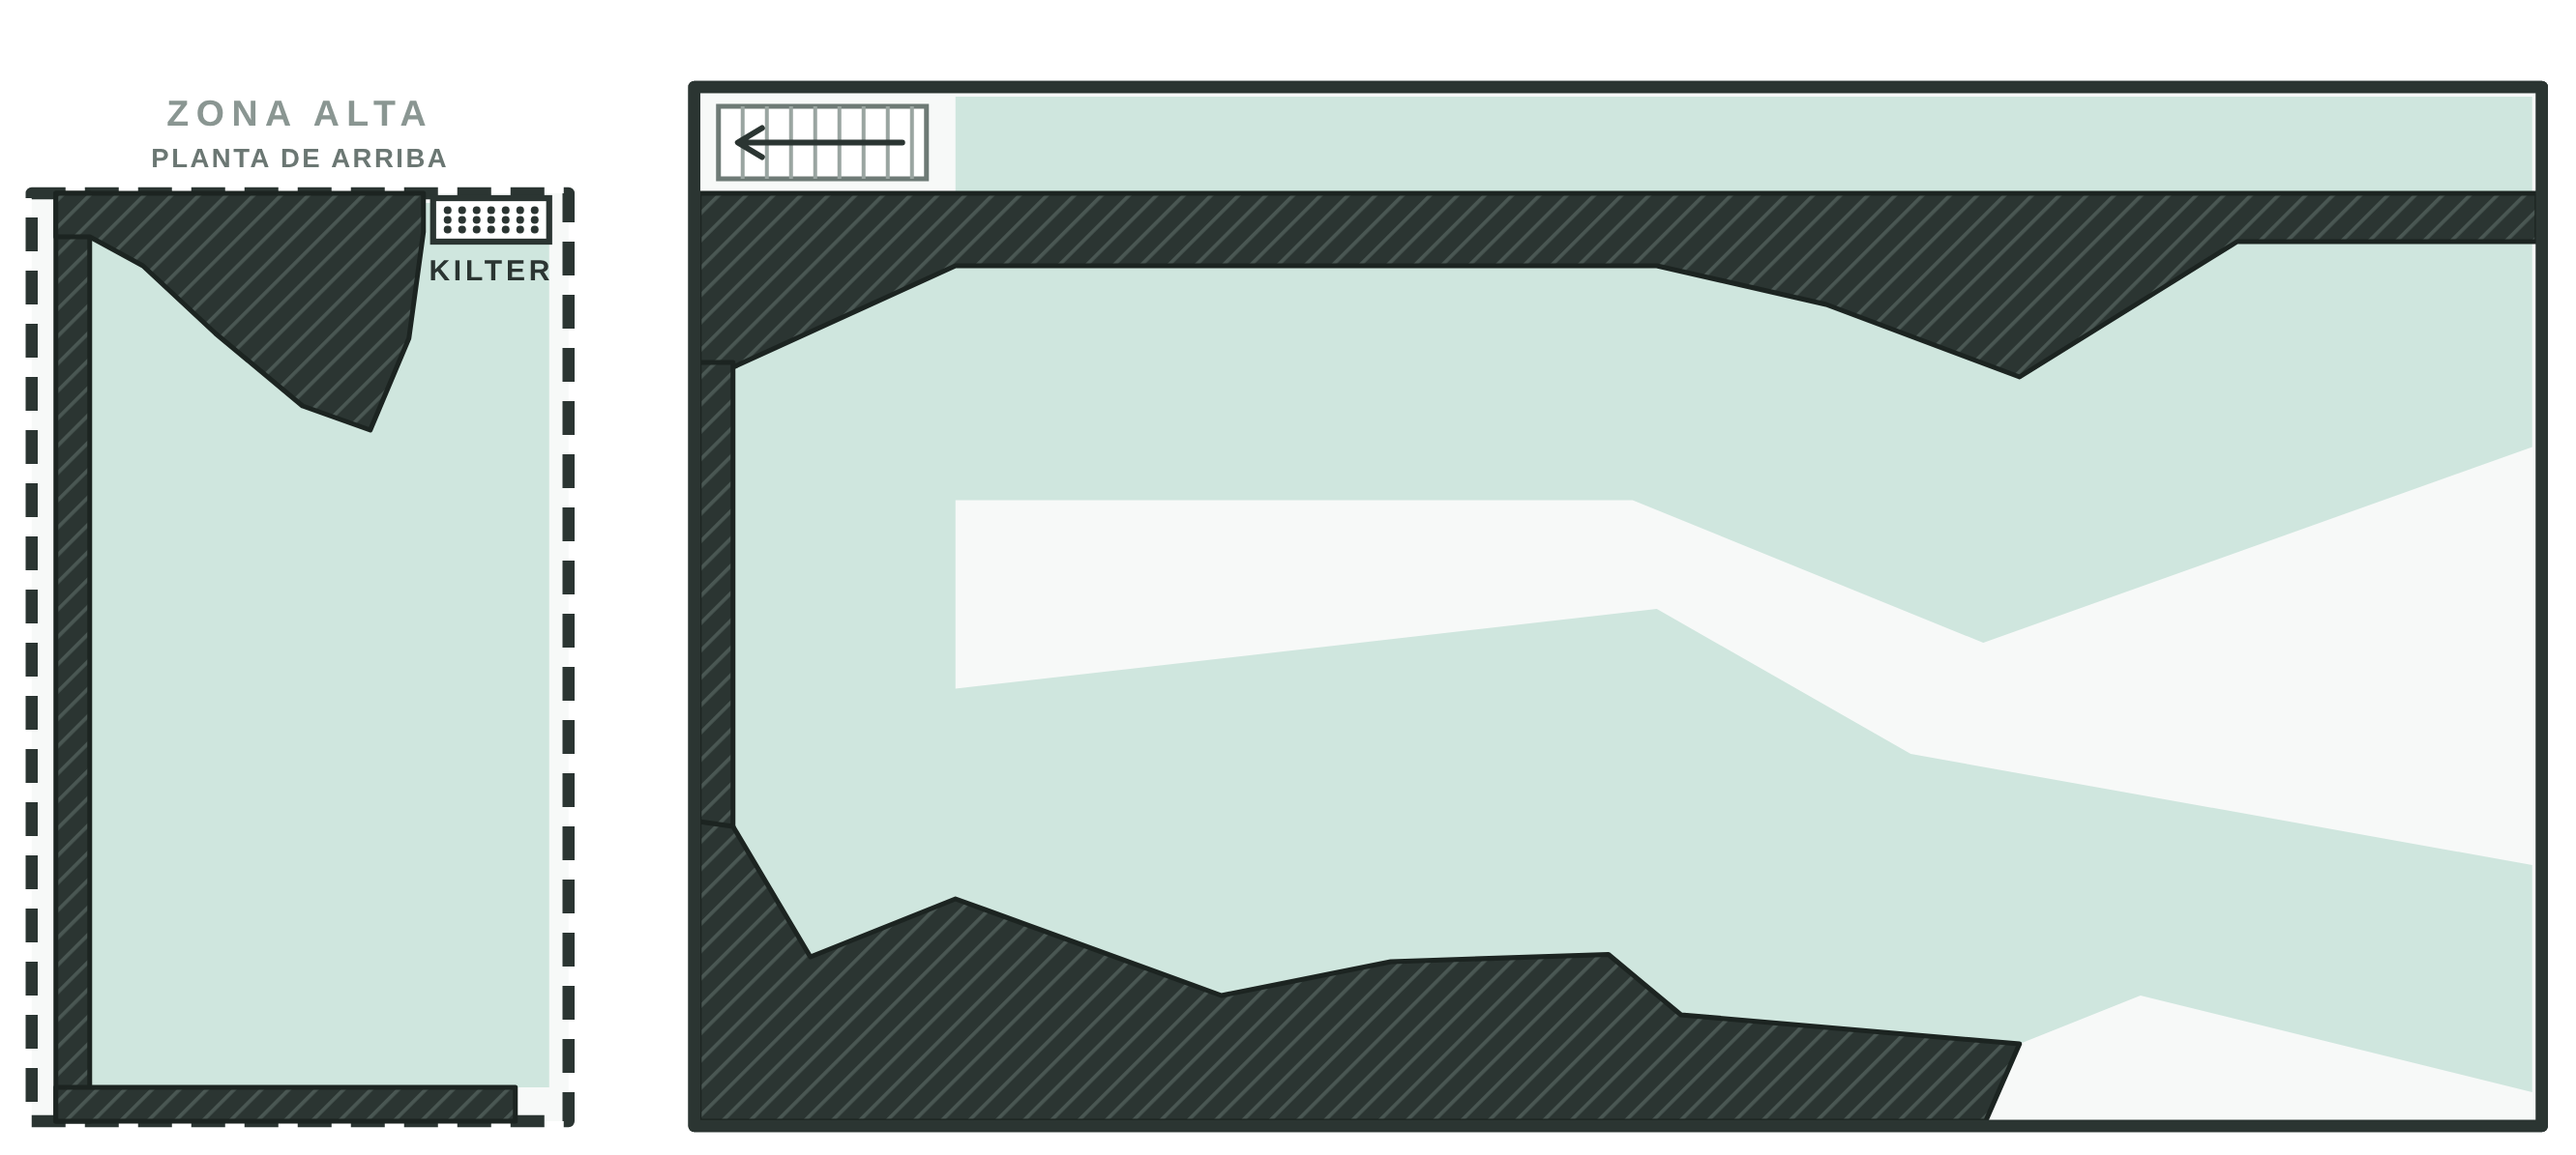
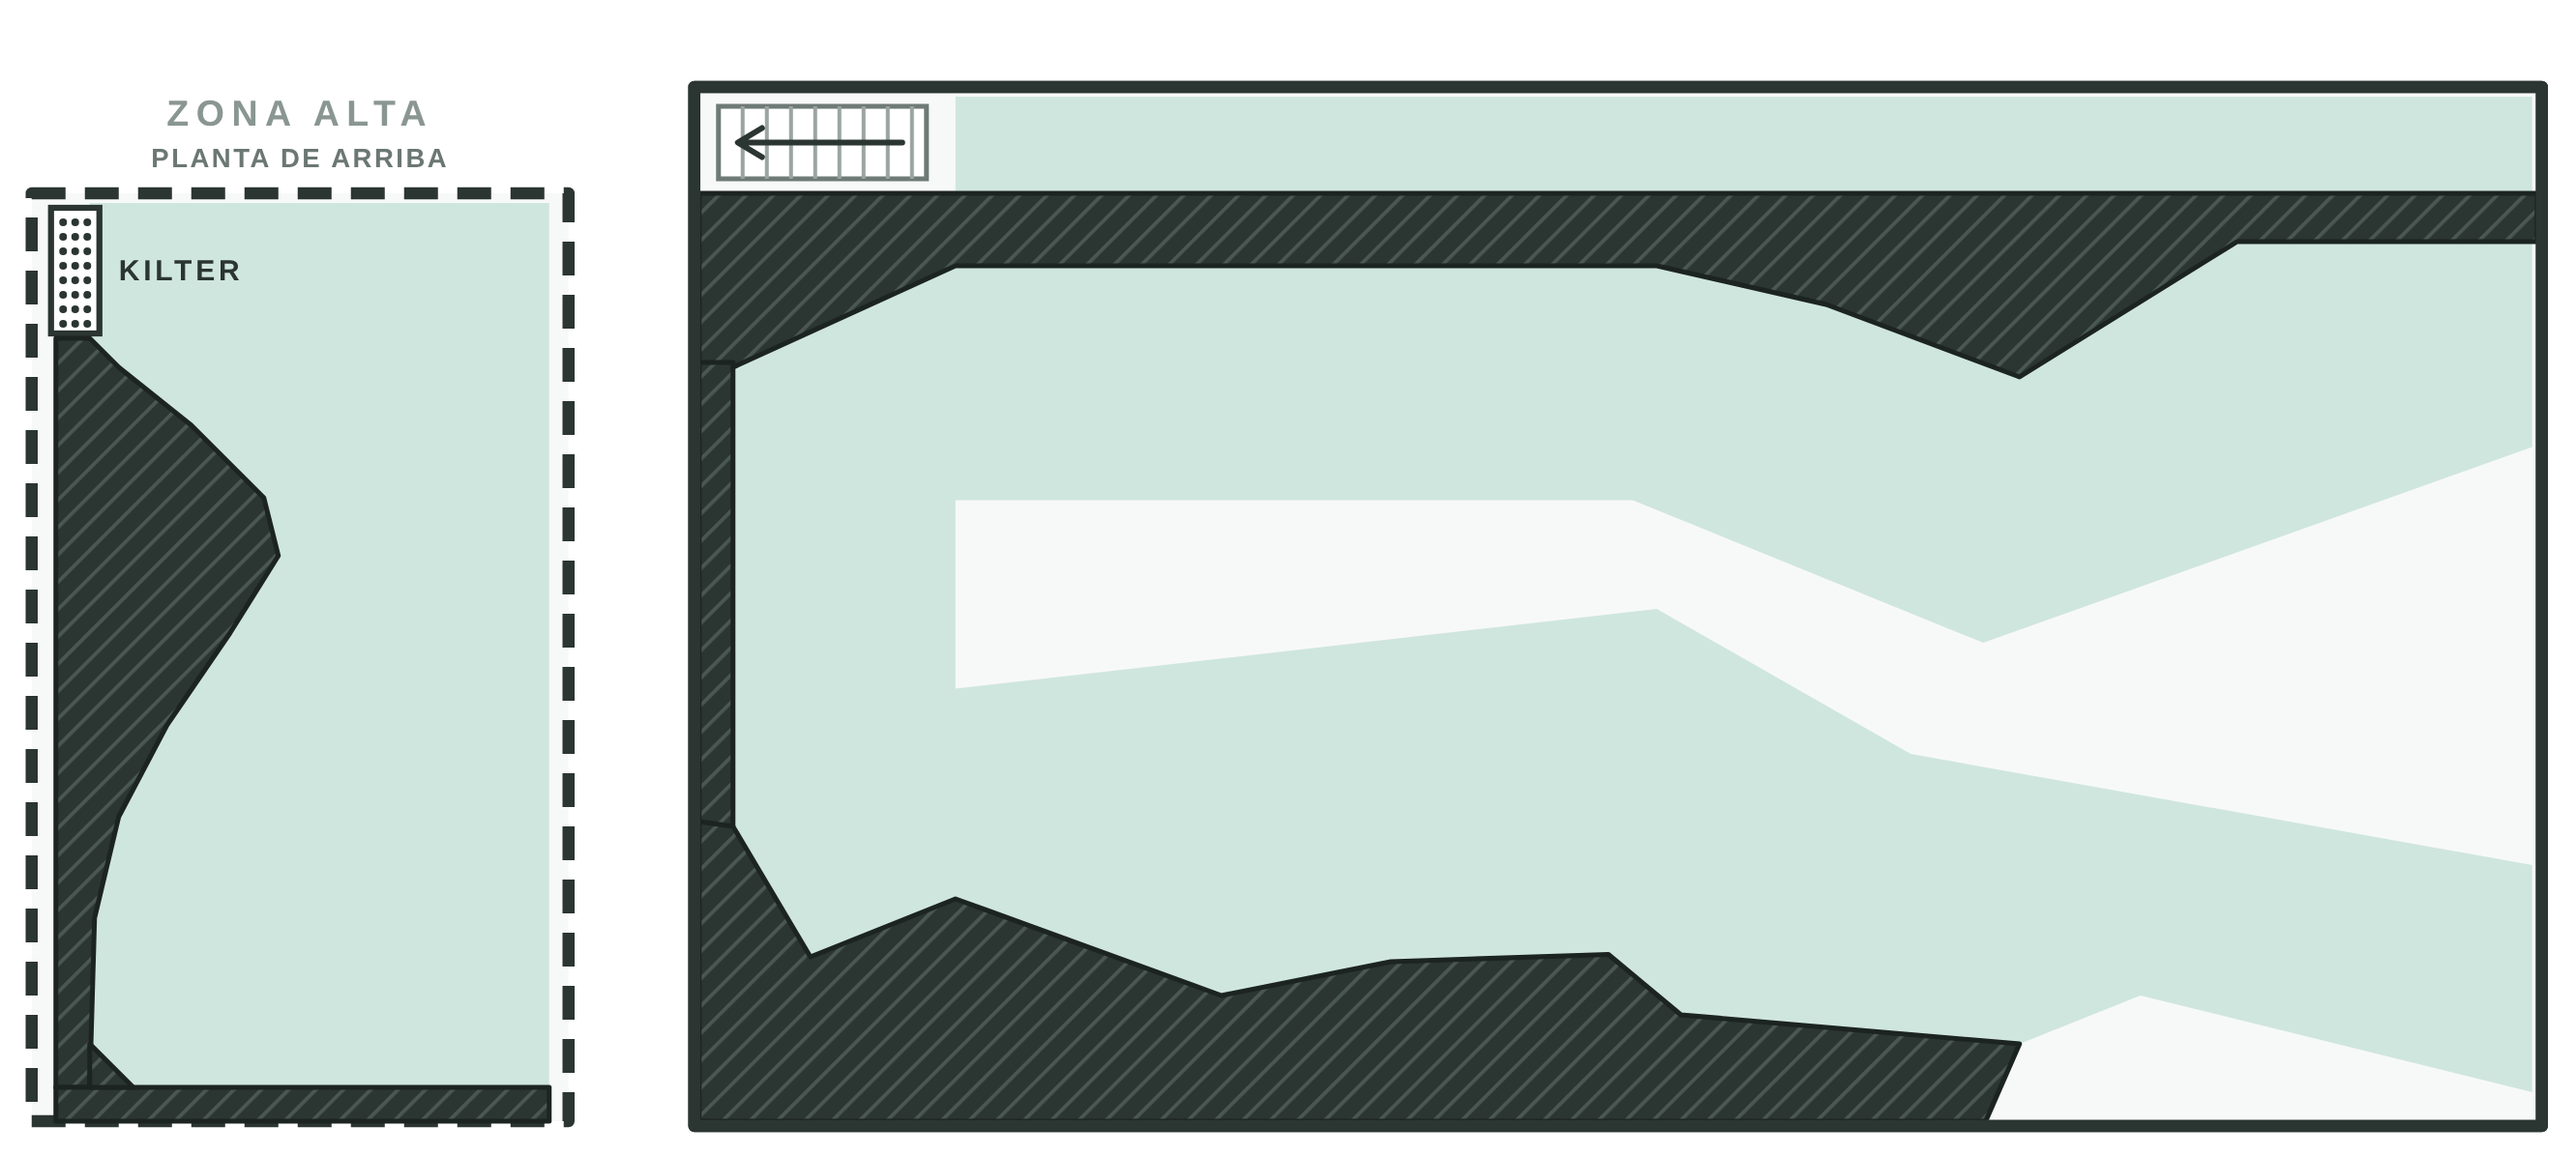
Plano de Benimaclet: zona alta con pared del fondo e izquierda
La foto está tomada desde la esquina delantera derecha: se escalan la
pared del fondo (con desplome y la Kilter en el hueco) y la izquierda.

Claude-Session: https://claude.ai/code/session_01DAFZYU9jXZHpUX8tGfXKMs

Changed region(s): [[0.0, 0.1548, 0.2182, 0.805], [0.187, 0.9289, 0.2182, 0.9908], [0.0312, 0.8979, 0.0623, 0.9598]]

diff --git a/mapas/natural-benimaclet.py b/mapas/natural-benimaclet.py
@@ -11,12 +11,13 @@ mat = [(26,150),(120,108),(410,108),(480,125),(560,155),(650,100),(772,100),(772
 # Colchoneta delante de la cara exterior del brazo de arriba
 mat_ext = [(120,40),(772,40),(772,80),(120,80)]
 walls = {
-  # Zona alta, abierta hacia la U (a la derecha). Fondo: pared de los triángulos
-  "alta-fondo": [(-252,80),(-238,80),(-238,464),(-252,464)],
-  # Pared de las presas amarillas (a la izquierda según se entra)
-  "alta-amarilla": [(-252,450),(-62,450),(-62,464),(-252,464)],
-  # Pared grande con desplome (a la derecha según se entra): sale hacia la sala en proa
-  "alta-desplome": [(-252,80),(-100,80),(-100,96),(-106,140),(-122,178),(-150,168),(-186,138),(-216,110),(-238,98),(-252,98)],
+  # Zona alta (frente abierto hacia la U, a la derecha del recuadro).
+  # Pared del fondo: la grande con desplome, que sale hacia la sala en proa; la Kilter va en el hueco de arriba
+  "alta-fondo": [(-252,140),(-238,140),(-226,152),(-196,176),(-166,206),(-160,230),(-180,262),(-206,300),(-226,338),(-236,380),(-238,450),(-252,450)],
+  # Pared izquierda: triángulos y presas amarillas
+  "alta-izquierda": [(-252,450),(-48,450),(-48,464),(-252,464)],
+  # Volumen de la esquina entre las dos
+  "alta-esquina": [(-238,450),(-238,432),(-220,450)],
   # Brazo de arriba: se escala por dentro (con su desplome) y por fuera
   "arriba": [(14,80),(774,80),(774,100),(650,100),(560,156),(480,126),(410,110),(120,110),(28,152),(14,152)],
   "fondo": [(14,150),(28,150),(28,342),(14,342)],
@@ -40,9 +41,9 @@ svg = f'''<svg xmlns="http://www.w3.org/2000/svg" viewBox="-275 0 1065 478" widt
 <polygon points="{P(up)}" fill="#F7F9F8" stroke="#2B3532" stroke-width="5" stroke-dasharray="14 8" stroke-linejoin="round"/>
 <polygon points="{P(up_mat)}" fill="#CFE6DE"/>
 <g>
-  <rect x="-96" y="82" width="48" height="18" fill="#FFFFFF" stroke="#2B3532" stroke-width="2.5"/>
-  <g fill="#2B3532">{"".join(f'<circle cx="{x}" cy="{y}" r="1.6"/>' for x in range(-90, -50, 6) for y in (87, 91, 95))}</g>
-  <text x="-72" y="116" font-family="Helvetica, Arial, sans-serif" font-size="12" font-weight="800" fill="#2B3532" letter-spacing="1.5" text-anchor="middle">KILTER</text>
+  <rect x="-254" y="86" width="20" height="52" fill="#FFFFFF" stroke="#2B3532" stroke-width="2.5"/>
+  <g fill="#2B3532">{"".join(f'<circle cx="{x}" cy="{y}" r="1.6"/>' for x in (-249,-244,-239) for y in range(92, 136, 6))}</g>
+  <text x="-226" y="116" font-family="Helvetica, Arial, sans-serif" font-size="12" font-weight="800" fill="#2B3532" letter-spacing="1.5">KILTER</text>
 </g>
 <text x="-151" y="52" font-family="Helvetica, Arial, sans-serif" font-size="15" font-weight="800" fill="#8A9692" letter-spacing="3" text-anchor="middle">ZONA ALTA</text>
 <text x="-151" y="69" font-family="Helvetica, Arial, sans-serif" font-size="11" font-weight="700" fill="#6B7773" text-anchor="middle" letter-spacing="1">PLANTA DE ARRIBA</text>
